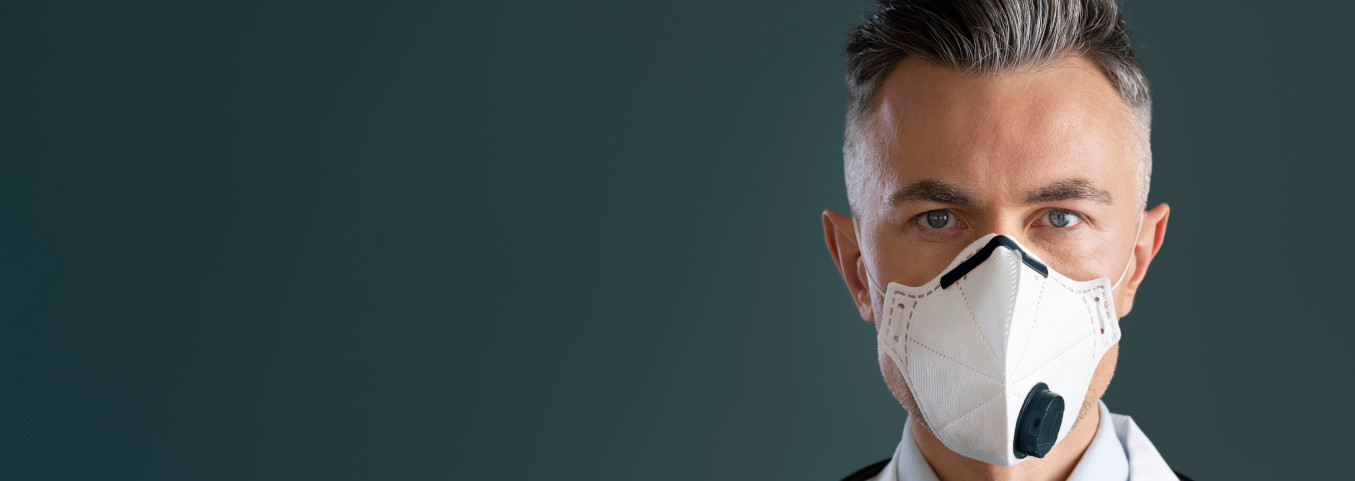
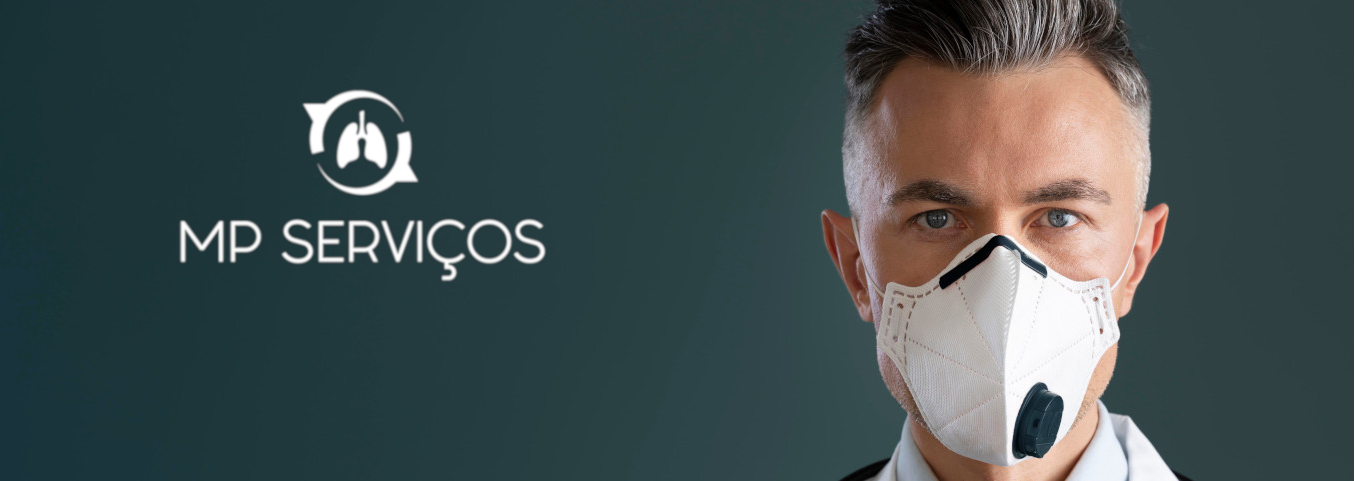
Atualização 24/12/23 06:30

diff --git a/index.html b/index.html
@@ -12,26 +12,56 @@
   <link rel="stylesheet" href="https://fonts.googleapis.com/css2?family=Roboto+Condensed:wght@400;700&display=swap">
   <script type="text/javascript" src="{{ url_for('static', filename='js/upload.js') }}"></script>
   <link rel="stylesheet" href="style.css">
+  <link href="https://cdn.jsdelivr.net/npm/bootstrap@5.3.2/dist/css/bootstrap.min.css" rel="stylesheet">
+  <link href="https://getbootstrap.com/docs/5.3/assets/css/docs.css" rel="stylesheet">
+  <script src="https://cdn.jsdelivr.net/npm/bootstrap@5.3.2/dist/js/bootstrap.bundle.min.js"></script>
   <title>Marinte Solutions</title>
 </head>
 
 <body>
   <header>
-    <div class="collapse" id="navbarToggleExternalContent" data-bs-theme="dark">
-      
-      <div class="bg-dark p-4">
-        <h5 class="text-body-emphasis h4">Collapsed content</h5>
-        <span class="text-body-secondary">Toggleable via the navbar brand.</span>
-      </div>
-    </div>
-    <nav class="navbar navbar-dark bg-dark">
+    <nav class="navbar bg-body-tertiary fixed-top">
       <div class="container-fluid">
-        <button class="navbar-toggler" type="button" data-bs-toggle="collapse" data-bs-target="#navbarToggleExternalContent" aria-controls="navbarToggleExternalContent" aria-expanded="false" aria-label="Toggle navigation">
+        <a class="navbar-brand" href="#"><font style="vertical-align: inherit;"><font style="vertical-align: inherit;">MP Serviços</font></font></a>
+        <button class="navbar-toggler" type="button" data-bs-toggle="offcanvas" data-bs-target="#offcanvasNavbar" aria-controls="offcanvasNavbar" aria-label="Alternar de navegação">
           <span class="navbar-toggler-icon"></span>
         </button>
+        <div class="offcanvas offcanvas-end" tabindex="-1" id="offcanvasNavbar" aria-labelledby="offcanvasNavbarLabel">
+          <div class="offcanvas-header">
+            <h5 class="offcanvas-title" id="offcanvasNavbarLabel"><font style="vertical-align: inherit;"><font style="vertical-align: inherit;">Fora da tela</font></font></h5>
+            <button type="button" class="btn-close" data-bs-dismiss="offcanvas" aria-label="Fechar"></button>
+          </div>
+          <div class="offcanvas-body">
+            <ul class="navbar-nav justify-content-end flex-grow-1 pe-3">
+              <li class="nav-item">
+                <a class="nav-link active" aria-current="page" href="#"><font style="vertical-align: inherit;"><font style="vertical-align: inherit;">Lar</font></font></a>
+              </li>
+              <li class="nav-item">
+                <a class="nav-link" href="#"><font style="vertical-align: inherit;"><font style="vertical-align: inherit;">Link</font></font></a>
+              </li>
+              <li class="nav-item dropdown">
+                <a class="nav-link dropdown-toggle" href="#" role="button" data-bs-toggle="dropdown" aria-expanded="false"><font style="vertical-align: inherit;"><font style="vertical-align: inherit;">
+                  Suspenso
+                </font></font></a>
+                <ul class="dropdown-menu">
+                  <li><a class="dropdown-item" href="#">Action</a></li>
+                  <li><a class="dropdown-item" href="#">Another action</a></li>
+                  <li>
+                    <hr class="dropdown-divider">
+                  </li>
+                  <li><a class="dropdown-item" href="#">Something else here</a></li>
+                </ul>
+              </li>
+            </ul>
+            <form class="d-flex mt-3" role="search">
+              <input class="form-control me-2" type="search" placeholder="Procurar" aria-label="Procurar">
+              <button class="btn btn-outline-success" type="submit"><font style="vertical-align: inherit;"><font style="vertical-align: inherit;">Procurar</font></font></button>
+            </form>
+          </div>
+        </div>
       </div>
     </nav>
-    
+   
     <section class="introduction">
 
       <section id="sobre">
